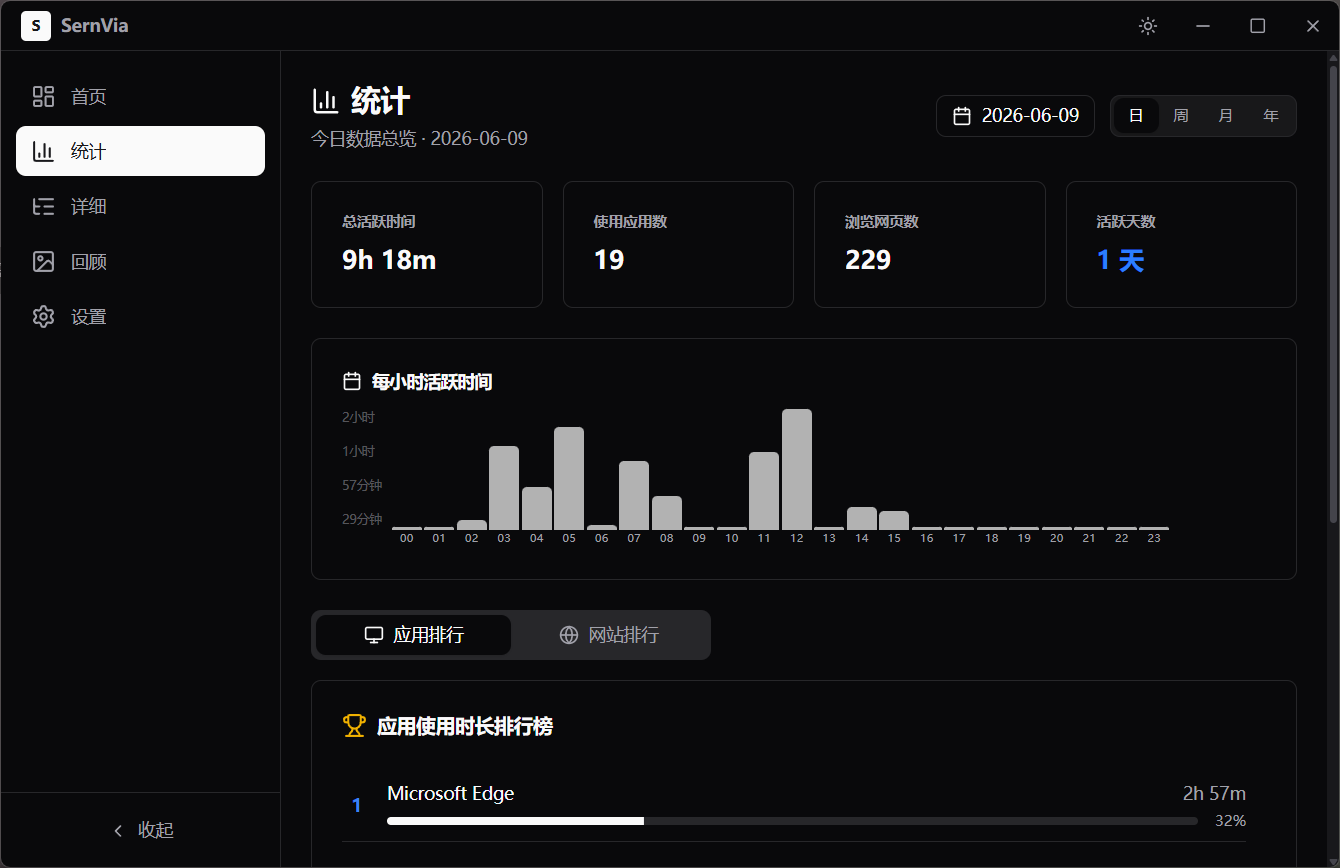
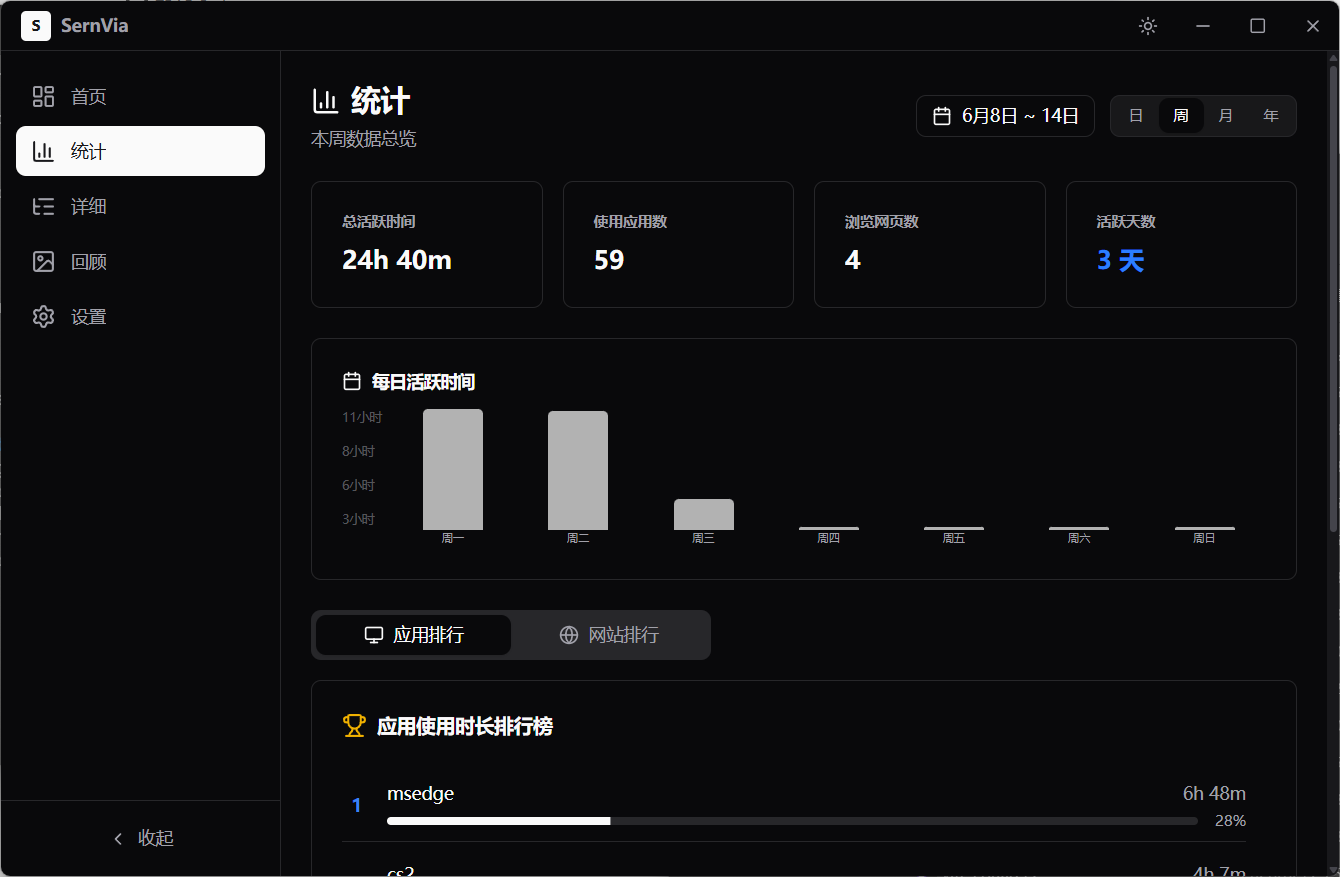
chore: 升级版本号至 0.2.1，修复 readme 图片错误

diff --git a/src/pages/SettingsPage.tsx b/src/pages/SettingsPage.tsx
@@ -936,7 +936,7 @@ export function SettingsPage() {
         <CardContent className="space-y-4">
           <div className="flex items-center justify-between">
             <p className="text-sm font-medium">应用版本</p>
-            <p className="text-sm text-muted-foreground">v0.2.0</p>
+            <p className="text-sm text-muted-foreground">v0.2.1</p>
           </div>
           <Separator />
           <div className="flex items-center justify-between">